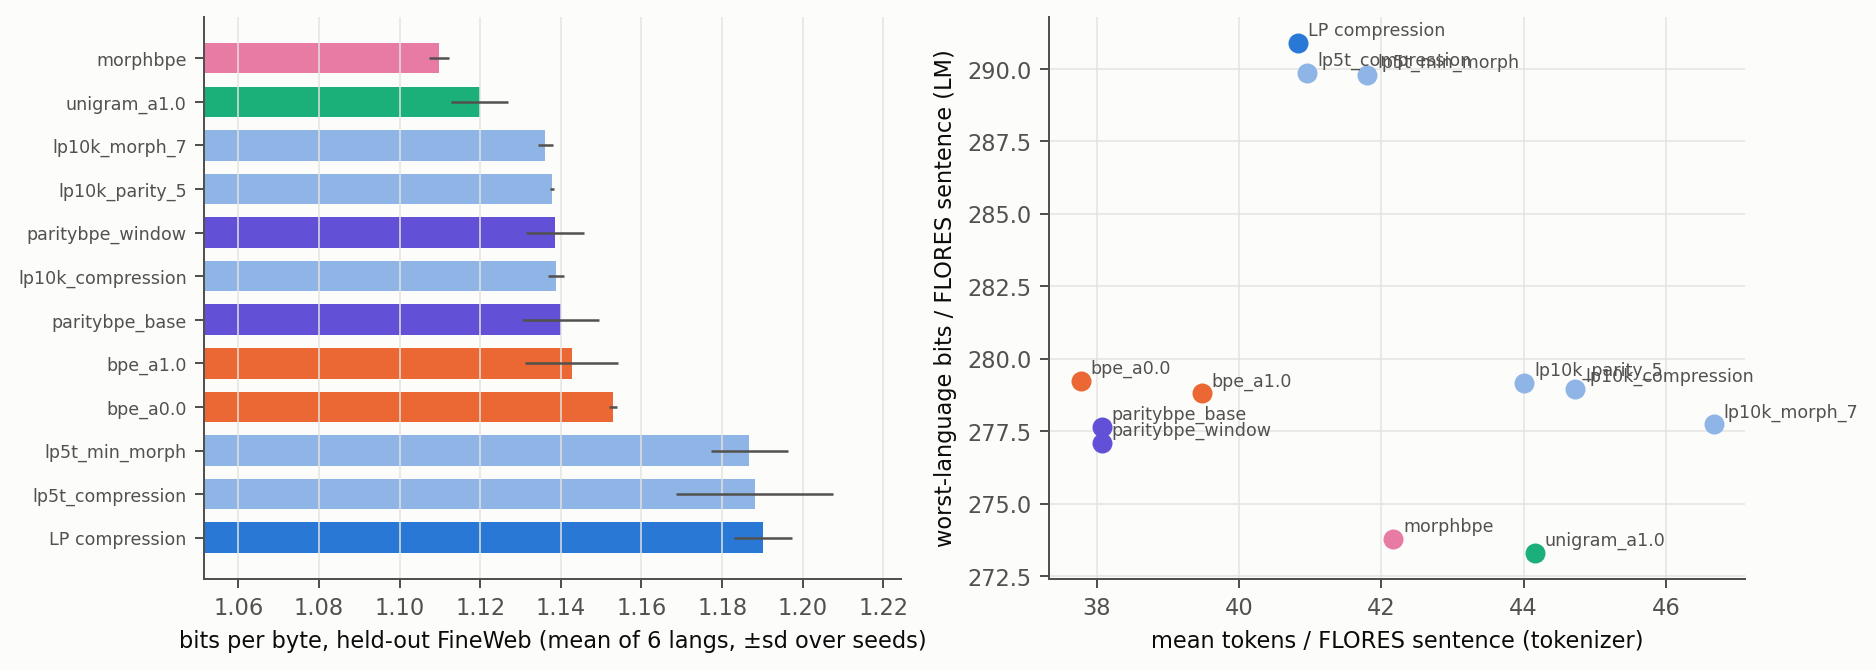
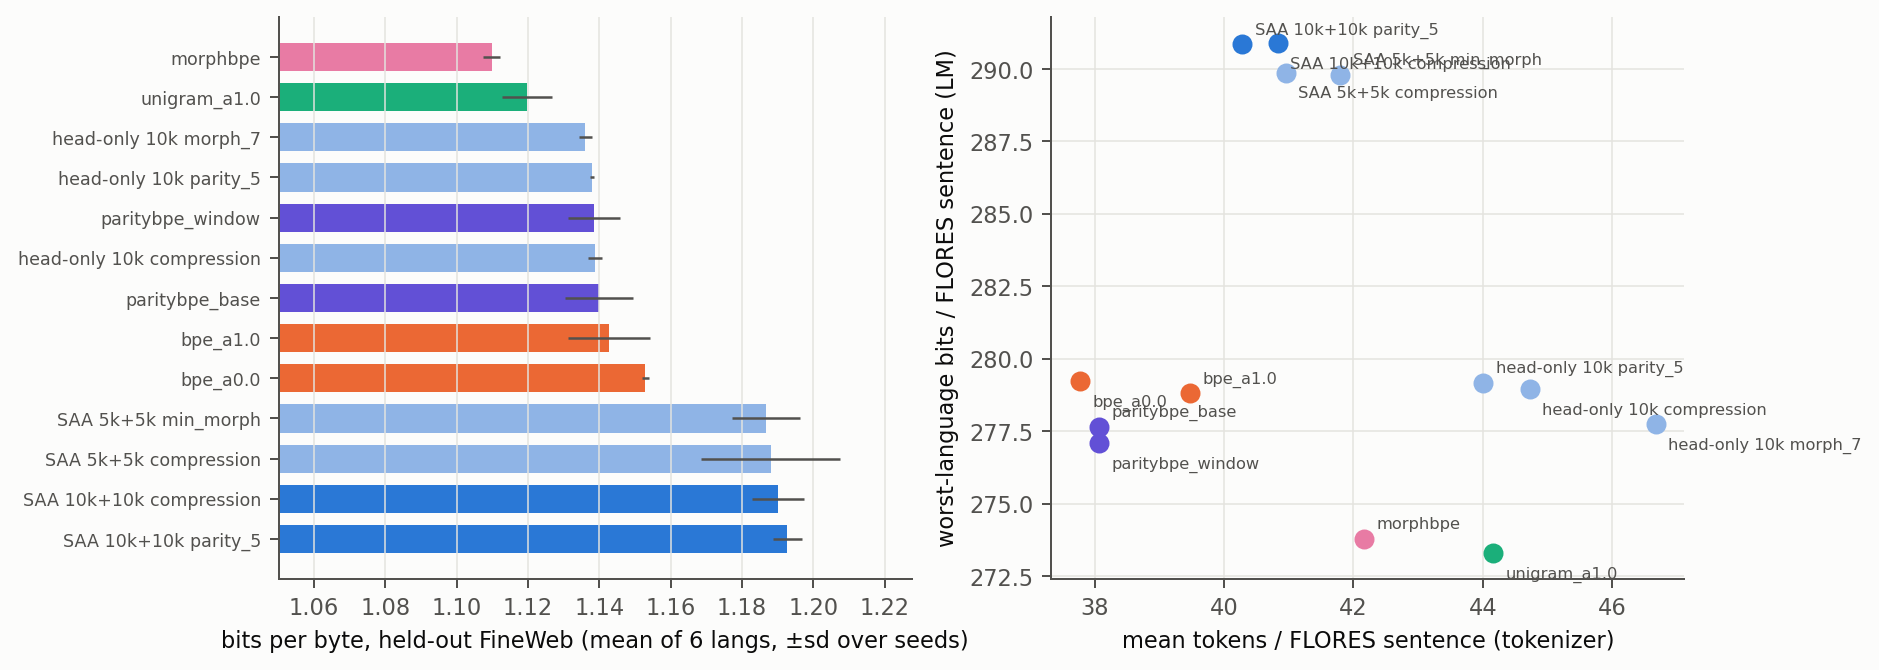
Report: parity-point LMs, final figures and tables
Claude-Session: https://claude.ai/code/session_01FYwLFYWxv3oCTEbthWZoW1

diff --git a/scripts/08_report.py b/scripts/08_report.py
@@ -37,6 +37,14 @@ OTHERS = [(d, p + "_") for d, p in (x.split(":") for x in a.others)]
 NAMES = {"lp10t": "LP SAA 10k+10k", "lp5t": "LP SAA 5k+5k", "lp10k": "LP head-only 10k", "lp10km": "LP morph-first 10k",
          "lp20t": "LP SAA 20k+20k", "lp20k": "LP head-only 20k"}
 nm = lambda pf: NAMES.get(pf.rstrip("_"), pf.rstrip("_"))
+SHORT = {"lp10t_": "SAA 10k+10k ", "lp5t_": "SAA 5k+5k ", "lp10k_": "head-only 10k ", "lp10km_": "morph-first 10k "}
+
+
+def short(n):
+    for k, v in SHORT.items():
+        if n.startswith(k):
+            return v + n[len(k):]
+    return n
 pref = {LP_DIR: P1, **{d: p for d, p in OTHERS}}
 stats = {l: json.load(open(cfg.data / "counts" / f"{l}.json"))["stats"] for l in langs}
 w = np.array([stats[l]["chars"] for l in langs], float); w /= w.sum()
@@ -304,17 +312,18 @@ if lm_rows:
     y = np.arange(len(names))
     axs[0].barh(y, [r["fw_bpb_mean"] for r in lm_rows], xerr=[r["fw_bpb_sd"] for r in lm_rows], color=[fam_col(n) for n in names],
                 height=0.7, error_kw={"ecolor": INK2, "lw": 1})
-    axs[0].set_yticks(y); axs[0].set_yticklabels([n.replace(P1, "LP ") for n in names], fontsize=7)
+    axs[0].set_yticks(y); axs[0].set_yticklabels([short(n) for n in names], fontsize=7)
     axs[0].invert_yaxis(); axs[0].set_xlabel("bits per byte, held-out FineWeb (mean of 6 langs, ±sd over seeds)")
     lo = min(r["fw_bpb_mean"] for r in lm_rows); hi = max(r["fw_bpb_mean"] for r in lm_rows)
     axs[0].set_xlim(lo - 0.6 * (hi - lo) - 0.01, hi + 0.3 * (hi - lo) + 0.01)
     axs[0].grid(axis="y", visible=False)
-    for r in lm_rows:
+    for i, r in enumerate(sorted(lm_rows, key=lambda r: (r["bits_per_sent_max"], r["tokenizer"]))):
         tk = E.get(r["tokenizer"])
         if tk and have_fl:
-            axs[1].plot(np.mean(list(tk["flores_abs"].values())), r["bits_per_sent_max"], "o", color=fam_col(r["tokenizer"]), ms=7)
-            axs[1].annotate(r["tokenizer"].replace(P1, "LP "), (np.mean(list(tk["flores_abs"].values())), r["bits_per_sent_max"]),
-                            xytext=(4, 3), textcoords="offset points", fontsize=7, color=INK2)
+            xx = np.mean(list(tk["flores_abs"].values()))
+            axs[1].plot(xx, r["bits_per_sent_max"], "o", color=fam_col(r["tokenizer"]), ms=7)
+            axs[1].annotate(short(r["tokenizer"]), (xx, r["bits_per_sent_max"]), xytext=(5, 4 if i % 2 else -10),
+                            textcoords="offset points", fontsize=6.5, color=INK2)
     axs[1].set_xlabel("mean tokens / FLORES sentence (tokenizer)")
     axs[1].set_ylabel("worst-language bits / FLORES sentence (LM)")
     fig.tight_layout(); fig.savefig(OUT / "fig_lm.png"); plt.close(fig)

diff --git a/report/REPORT.md b/report/REPORT.md
@@ -217,13 +217,13 @@ tokenization-independent.
 |---|---|---|---|---|
 | MorphBPE | **1.110 ± 0.002** | **1.078** | 273.8 | 3283 |
 | Unigram α = 1 | 1.120 ± 0.007 | 1.086 | **273.3** | 3572 |
-| head-only LP 10k, compression | 1.139 ± 0.002 | 1.112 | 279.0 | 3539 |
+| head-only LP 10k, morph_7 / parity_5 / compression | 1.136 / 1.138 / 1.139 (sd ≤ 0.002) | 1.110 – 1.112 | 277.7 – 279.2 | 3504 – 3674 |
 | Parity-aware BPE | 1.140 ± 0.010 | 1.104 | 277.7 | 3106 |
 | BPE α = 1 | 1.143 ± 0.012 | 1.104 | 278.8 | 3060 |
 | BPE α = 0 | 1.153 ± 0.001 | 1.109 | 279.2 | 2989 |
-| SAA LP 5k+5k, compression | 1.188 ± 0.020 | 1.151 | 289.9 | 3244 |
+| SAA LP 5k+5k, compression / min-morph | 1.188 ± 0.020 / 1.187 ± 0.010 | 1.151 / 1.149 | 289.9 / 289.8 | 3244 / 3309 |
 | SAA LP 10k+10k, compression | 1.190 ± 0.007 | 1.152 | 290.9 | 3173 |
-| SAA LP 10k+10k, parity_5 | PARITY_LM | | | |
+| SAA LP 10k+10k, parity_5 | 1.193 ± 0.004 | 1.154 | 290.9 | 3169 |
 
 - **Intrinsic metrics do not predict LM quality.** BPE α = 0 has the best compression and is the worst baseline LM;
   morphology-aligned tokenizers (MorphBPE, Unigram) are best.
@@ -231,8 +231,10 @@ tokenization-independent.
   seeds and both SAA sizes; their per-token loss equals BPE's while their tokens carry fewer bytes. A plausible cause
   is word-dependent fragmentation (e.g. " an|i|ma|tion", " H|ar|va|rd"): split-tree inference cuts mid-frequency
   words into short pieces that depend on the word, which is harder to model.
-- **Fairness of the tokenizer barely changes the fairness of the LM:** worst-language bits per FLORES sentence varies
-  by 2–6 % across tokenizers; the LM cost of a language is dominated by the language, not its token premium.
+- **Fairness of the tokenizer barely changes the fairness of the LM:** the SAA parity point cuts the worst-language
+  FLORES token count by 10 % relative to the SAA compression anchor, yet its LM has the *same* worst-language bits per
+  FLORES sentence (290.9 vs 290.9); across all tokenizers that quantity varies by only 2–6 %. The LM cost of a
+  language is dominated by the language, not by its token premium.
 - Noise floor: Parity-aware BPE's two variants produce identical tokenizations with permuted token ids and differ
   by up to 0.015 bpb. Caveat: with matched bytes, tokenizers that produce more tokens also get more steps.
 

diff --git a/report/tables.md b/report/tables.md
@@ -256,3 +256,4 @@
 | lp5t_min_morph | 3 | 27.1M | 3309 | 1.1868 ± 0.0095 | 1.1494 | 269.3 | 289.8 | 1.833 | 0.788 | 0.781 | 0.728 | 1.183 | 1.807 |
 | lp5t_compression | 3 | 26.6M | 3244 | 1.1881 ± 0.0195 | 1.1506 | 269.6 | 289.9 | 1.839 | 0.785 | 0.780 | 0.727 | 1.187 | 1.810 |
 | lp10t_compression | 3 | 26.0M | 3173 | 1.1902 ± 0.0073 | 1.1519 | 270.0 | 290.9 | 1.830 | 0.788 | 0.783 | 0.729 | 1.193 | 1.819 |
+| lp10t_parity_5 | 3 | 26.0M | 3169 | 1.1927 ± 0.0041 | 1.1540 | 270.4 | 290.9 | 1.835 | 0.791 | 0.785 | 0.730 | 1.190 | 1.826 |
